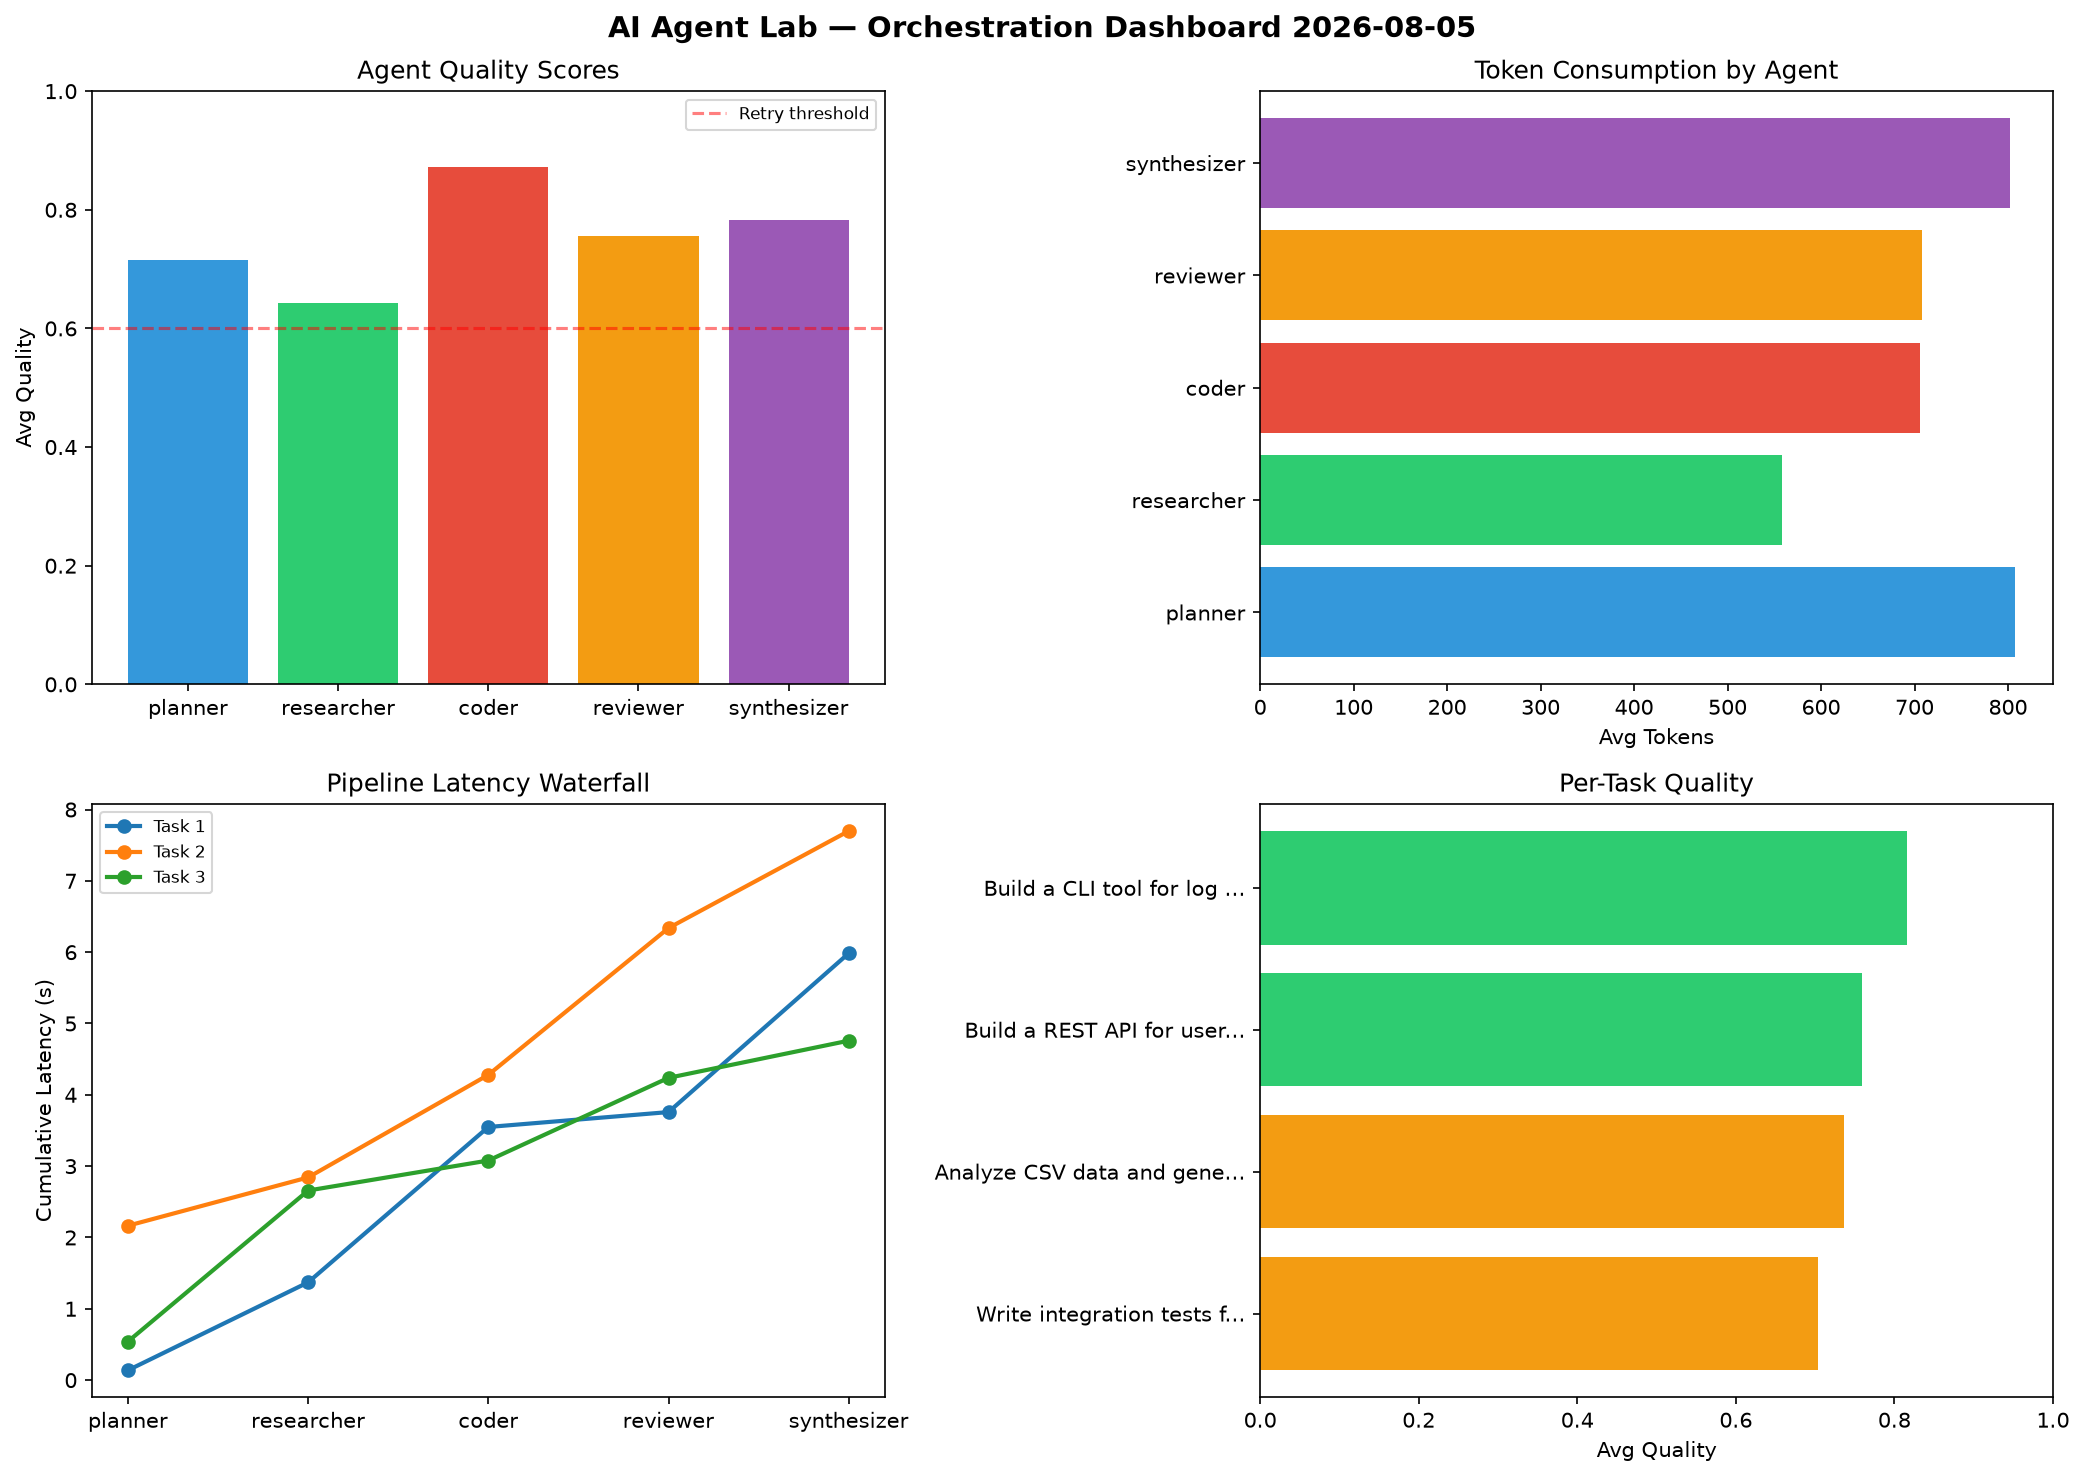
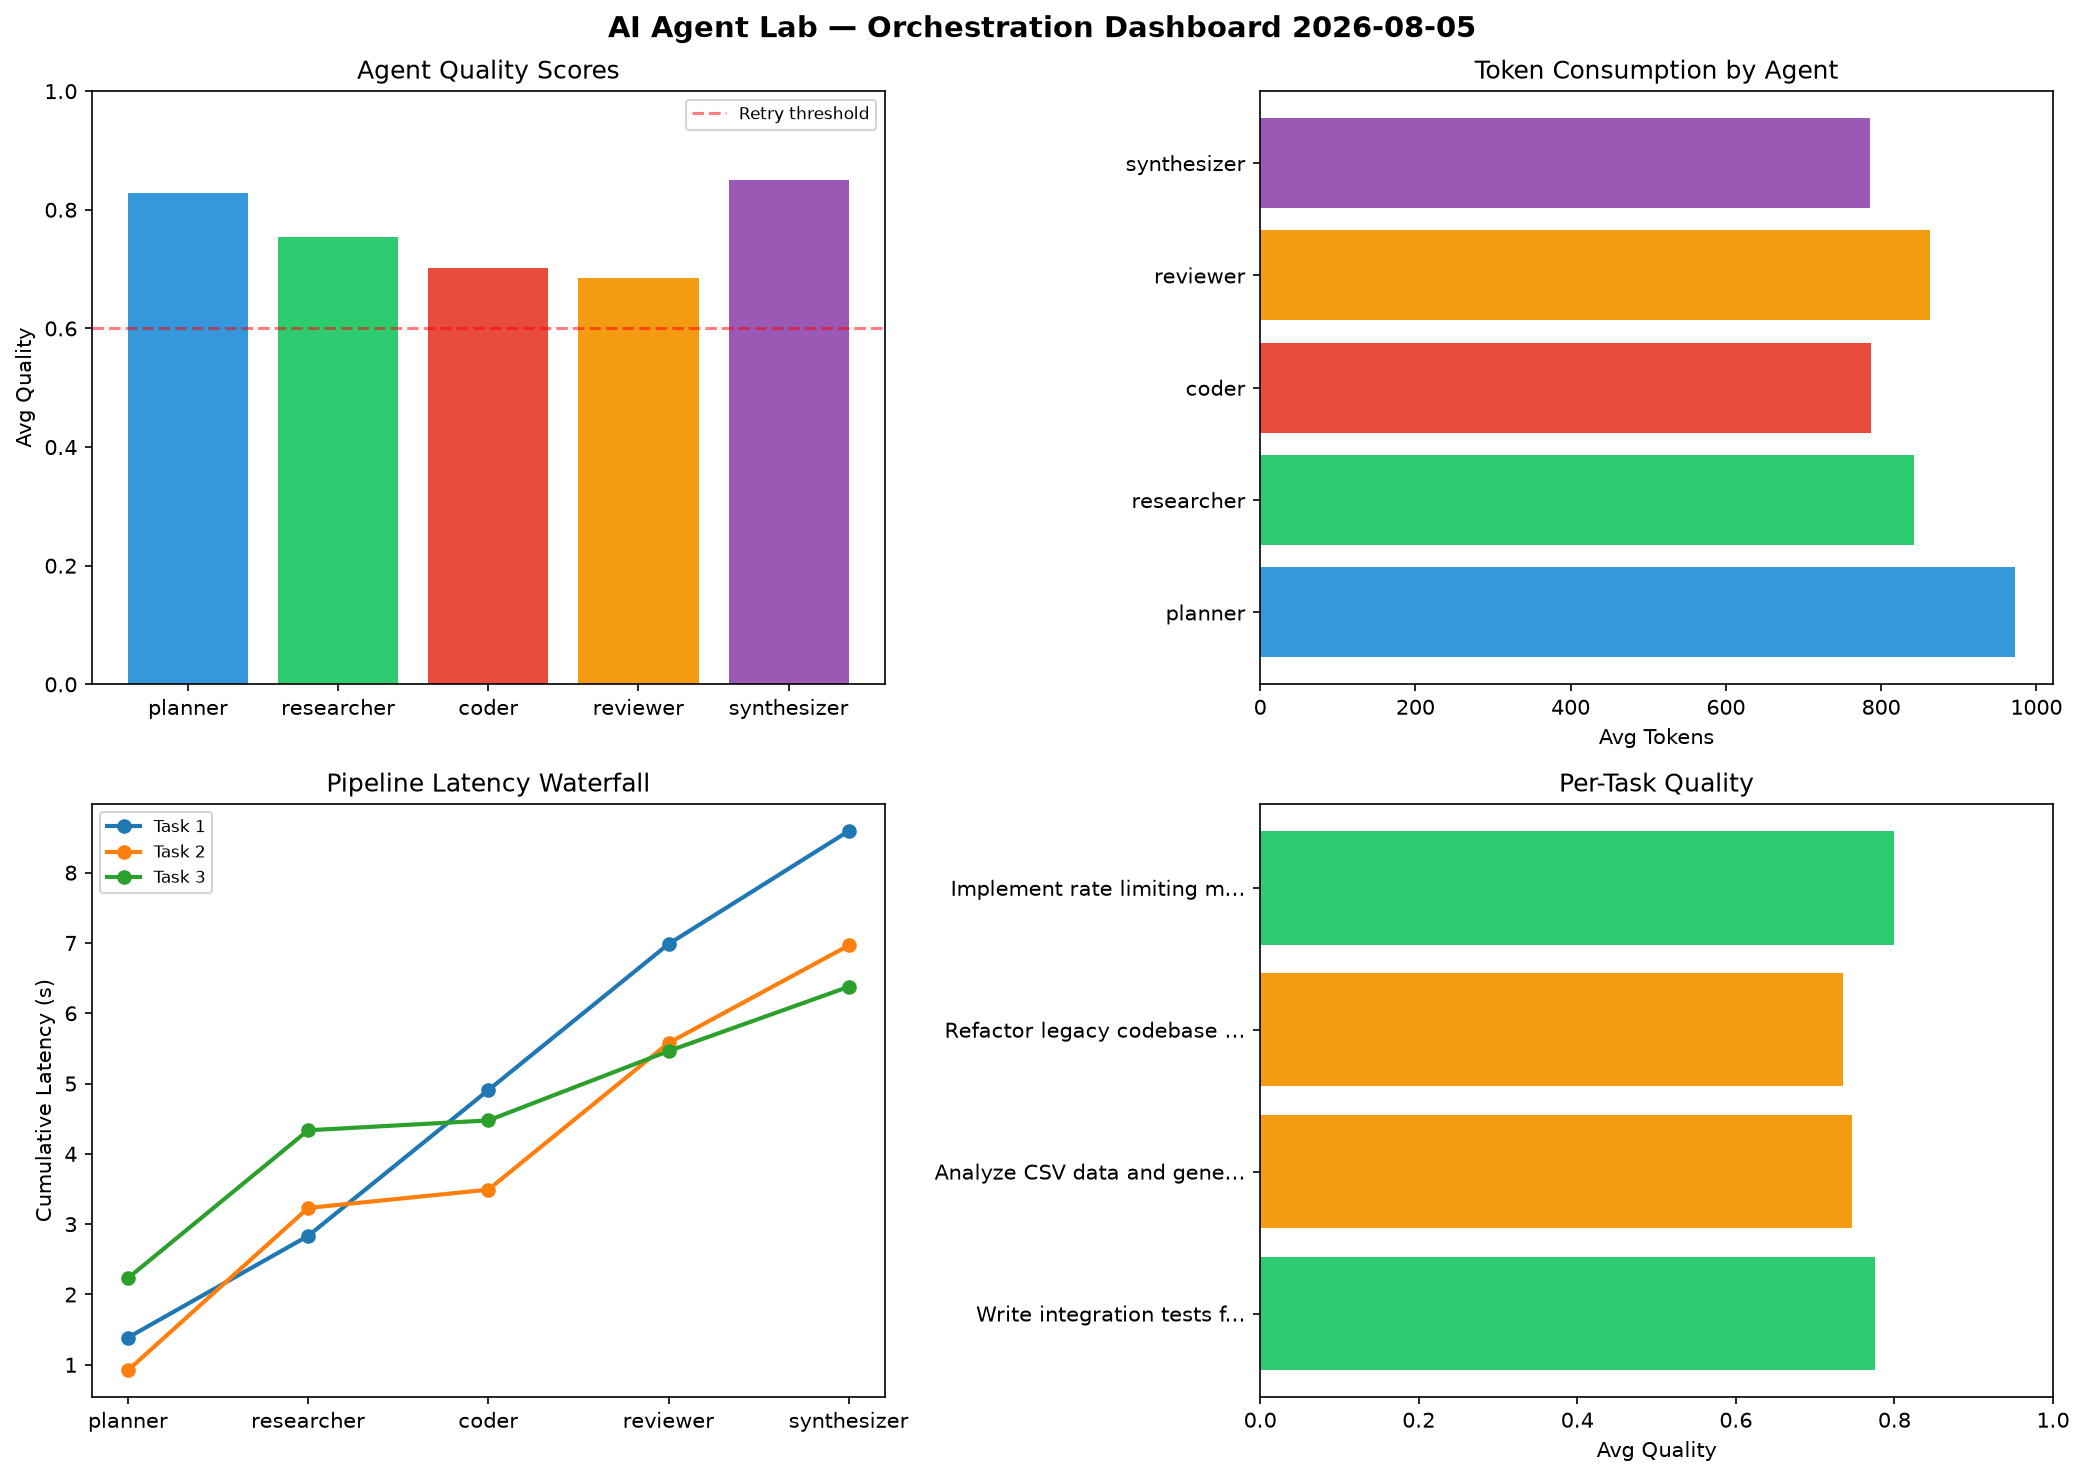
ai-agent-lab: orchestration run 2026-08-05T10:46

diff --git a/logs/2026-08-05.md b/logs/2026-08-05.md
@@ -1,6 +1,6 @@
 # AI Agent Lab — Orchestration Report 2026-08-05
 
-**Run ID:** `ac9303f280` | **Tasks:** 4 | **Avg Quality:** 0.754
+**Run ID:** `2b2f3c9b80` | **Tasks:** 4 | **Avg Quality:** 0.764
 
 ![Dashboard](2026-08-05_dashboard.png)
 
@@ -8,52 +8,52 @@
 
 | Metric | Value |
 |--------|-------|
-| avg_latency | 6.638 |
-| total_tokens | 14329 |
-| avg_quality | 0.754 |
+| avg_latency | 7.694 |
+| total_tokens | 17004 |
+| avg_quality | 0.764 |
 
 ## Delta vs Yesterday
 
 | Metric | Today | Yesterday | Change |
 |--------|-------|-----------|--------|
-| avg_latency | 6.638 | 6.109 | 📈 8.7% |
-| total_tokens | 14329 | 14934 | 📉 -4.1% |
-| avg_quality | 0.754 | 0.781 | 📉 -3.5% |
+| avg_latency | 7.694 | 6.109 | 📈 25.9% |
+| total_tokens | 17004 | 14934 | 📈 13.9% |
+| avg_quality | 0.764 | 0.781 | 📉 -2.2% |
 
 ## Pipeline Results
 
 ### Write integration tests for payment processing module
 | Agent | Quality | Latency | Tokens | Status |
 |-------|---------|---------|--------|--------|
-| planner | 0.697 | 0.138s | 789 | success |
-| researcher | 0.656 | 1.233s | 686 | success |
-| coder | 0.833 | 2.178s | 504 | success |
-| reviewer | 0.515 | 0.209s | 902 | needs_retry |
-| synthesizer | 0.82 | 2.226s | 1209 | success |
+| planner | 0.937 | 1.387s | 1252 | success |
+| researcher | 0.773 | 1.447s | 607 | success |
+| coder | 0.641 | 2.073s | 320 | success |
+| reviewer | 0.6 | 2.078s | 524 | needs_retry |
+| synthesizer | 0.922 | 1.607s | 766 | success |
 
 ### Analyze CSV data and generate statistical summary
 | Agent | Quality | Latency | Tokens | Status |
 |-------|---------|---------|--------|--------|
-| planner | 0.608 | 2.165s | 1210 | success |
-| researcher | 0.601 | 0.677s | 732 | success |
-| coder | 0.97 | 1.438s | 860 | success |
-| reviewer | 0.979 | 2.058s | 363 | success |
-| synthesizer | 0.523 | 1.36s | 719 | needs_retry |
+| planner | 0.768 | 0.922s | 860 | success |
+| researcher | 0.752 | 2.309s | 932 | success |
+| coder | 0.877 | 0.26s | 1193 | success |
+| reviewer | 0.563 | 2.086s | 1155 | needs_retry |
+| synthesizer | 0.777 | 1.388s | 545 | success |
 
-### Build a REST API for user authentication
+### Refactor legacy codebase to use dependency injection
 | Agent | Quality | Latency | Tokens | Status |
 |-------|---------|---------|--------|--------|
-| planner | 0.711 | 0.541s | 665 | success |
-| researcher | 0.772 | 2.117s | 396 | success |
-| coder | 0.843 | 0.421s | 500 | success |
-| reviewer | 0.611 | 1.159s | 313 | success |
-| synthesizer | 0.86 | 0.521s | 784 | success |
+| planner | 0.674 | 2.233s | 510 | success |
+| researcher | 0.627 | 2.103s | 1057 | success |
+| coder | 0.697 | 0.14s | 968 | success |
+| reviewer | 0.957 | 0.986s | 664 | success |
+| synthesizer | 0.721 | 0.915s | 861 | success |
 
-### Build a CLI tool for log analysis
+### Implement rate limiting middleware
 | Agent | Quality | Latency | Tokens | Status |
 |-------|---------|---------|--------|--------|
-| planner | 0.847 | 1.426s | 567 | success |
-| researcher | 0.541 | 0.38s | 418 | needs_retry |
-| coder | 0.844 | 2.038s | 960 | success |
-| reviewer | 0.917 | 2.39s | 1255 | success |
-| synthesizer | 0.93 | 1.878s | 497 | success |
+| planner | 0.937 | 2.28s | 1269 | success |
+| researcher | 0.866 | 1.557s | 772 | success |
+| coder | 0.595 | 1.123s | 667 | needs_retry |
+| reviewer | 0.622 | 2.147s | 1110 | success |
+| synthesizer | 0.981 | 1.736s | 972 | success |
